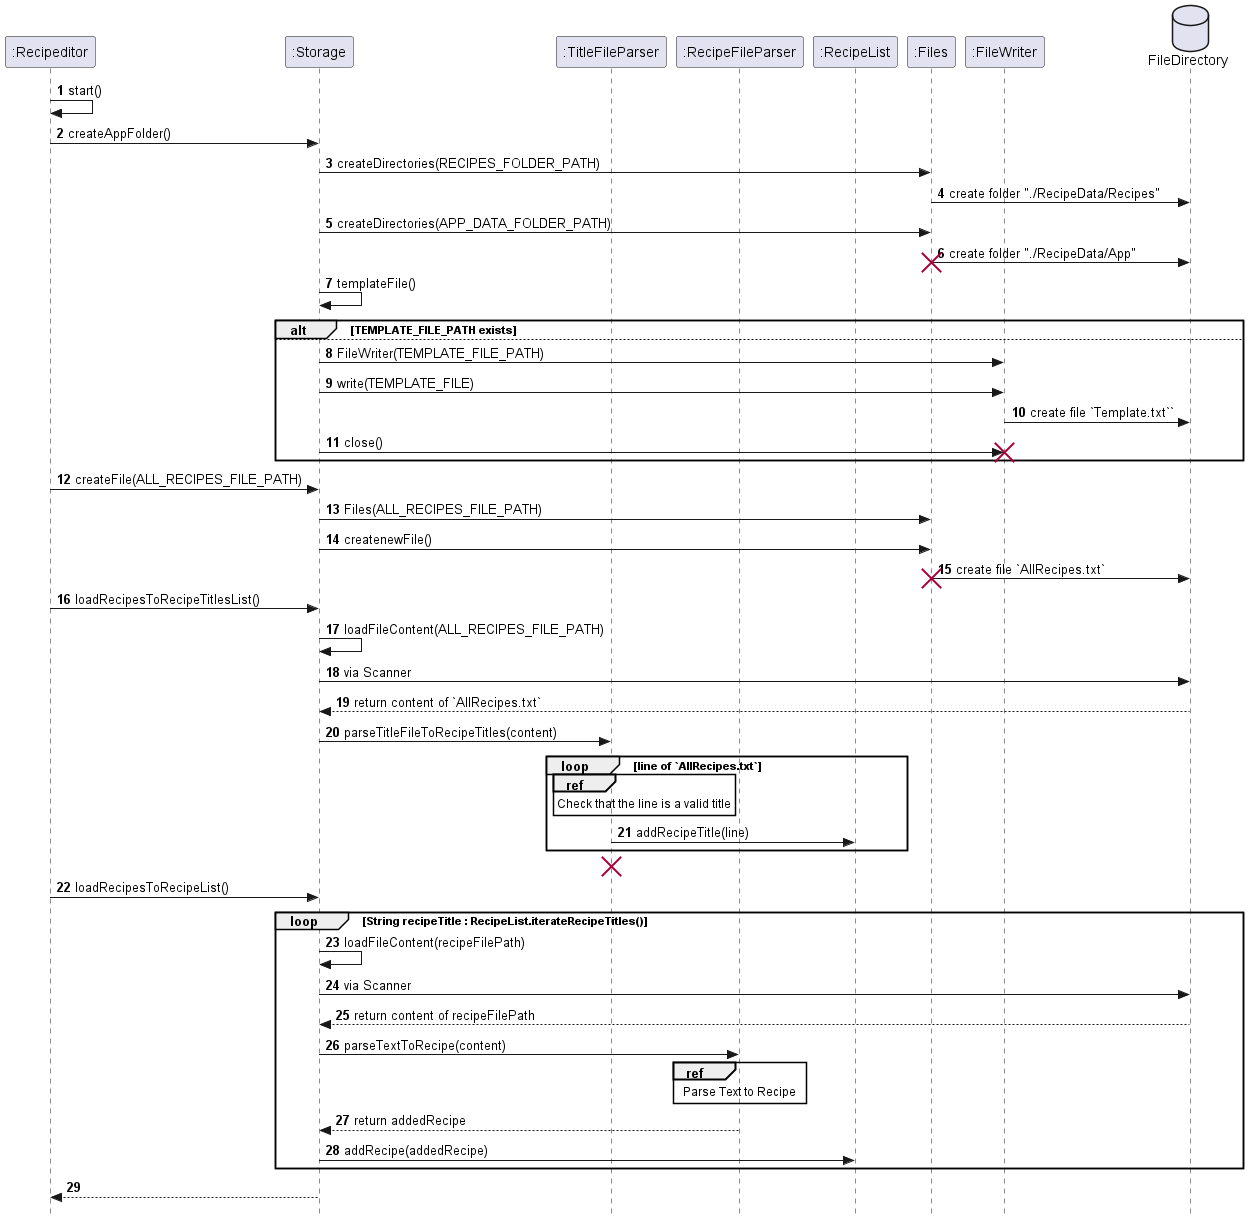
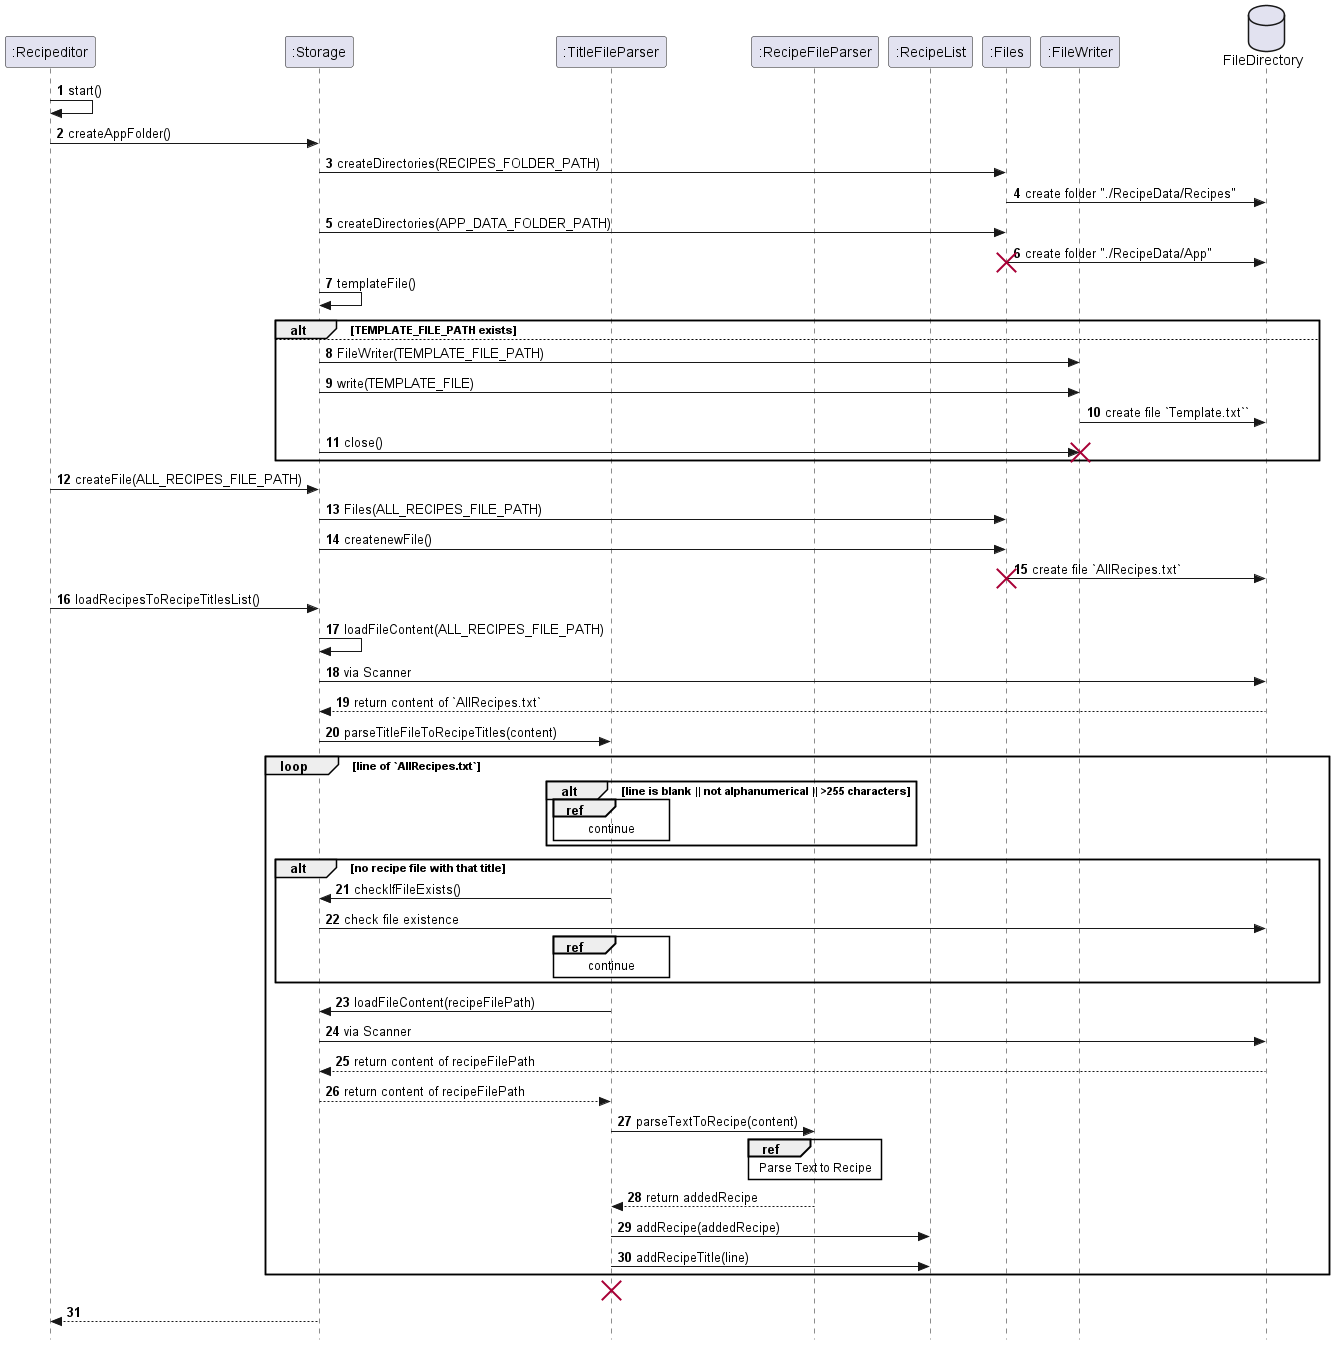
add test to recipeditor

diff --git a/src/main/java/recipeditor/Recipeditor.java b/src/main/java/recipeditor/Recipeditor.java
@@ -1,8 +1,6 @@
 package recipeditor;
 
 import recipeditor.parser.Parser;
-import recipeditor.recipe.Recipe;
-import recipeditor.recipe.RecipeList;
 import recipeditor.storage.Storage;
 import recipeditor.ui.Ui;
 
@@ -16,16 +14,18 @@ import java.io.File;
 public class Recipeditor {
 
     public static void main(String[] args) {
-        run(args);
+        run();
+        System.exit(0);
+
     }
 
-    private static void run(String[] args) {
-        start(args);
+    public static void run() {
+        start();
         runCommandLoopUntilExitCommand();
         exit();
     }
 
-    private static void start(String[] args) {
+    private static void start() {
         Storage.createAppFolder();
         Storage.createFile(Storage.ALL_RECIPES_FILE_PATH);
         Storage.loadRecipesToRecipeTitlesList();
@@ -37,7 +37,6 @@ public class Recipeditor {
         Storage.deleteAllRecipe();
         Storage.saveAllRecipe();
         Ui.showExit();
-        System.exit(0);
     }
 
     private static void runCommandLoopUntilExitCommand() {
@@ -53,12 +52,12 @@ public class Recipeditor {
     }
 
     private static CommandResult executeCommand(Command command) {
-        try {
-            CommandResult result = command.execute();
-            return result;
-        } catch (Exception e) {
-            Ui.showMessage(e.getMessage());
-            throw new RuntimeException(e);
-        }
+    //        try {
+        CommandResult result = command.execute();
+        return result;
+    //        } catch (Exception e) {
+    //            Ui.showMessage(e.getMessage());
+    //            throw new RuntimeException(e);
+    //        }
     }
 }

diff --git a/src/test/java/recipeditor/RecipeditorTest.java b/src/test/java/recipeditor/RecipeditorTest.java
@@ -1,13 +1,22 @@
 package recipeditor;
 
-import static org.junit.jupiter.api.Assertions.assertTrue;
 
 import org.junit.jupiter.api.Assertions;
 import org.junit.jupiter.api.Test;
 
 import java.io.ByteArrayInputStream;
+import java.io.IOException;
 import java.io.InputStream;
 
 class RecipeditorTest {
 
+    @Test
+    void runAndExit(){
+        String simulatedInput = "/exit";
+        ByteArrayInputStream input = new ByteArrayInputStream(simulatedInput.getBytes());
+        System.setIn(input);
+        String[] args = {""};
+        Recipeditor.run();
+        Assertions.assertTrue(true);
+    }
 }

diff --git a/docs/DeveloperGuide.md b/docs/DeveloperGuide.md
@@ -204,8 +204,8 @@ The edit component consists of three parts:
 - Parser
     - Parses the user input, instantiates the EditCommand class
 - EditModeCommand
-    - Handles the edit functions that falls under `EditModeCommand` 
-  (`Add`, `Swap`, `Change`, `Delete`, `Invalid`)
+    - Handles the edit functions that falls under `EditModeCommand`
+      (`Add`, `Swap`, `Change`, `Delete`, `Invalid`)
 - EditCommand
     - Instantiated by parser whenever `/edit` is called, instantiates the flag parser, switches the flow between GUI and
       CLI,
@@ -281,15 +281,20 @@ When the program starts, it will
     - Create `AllRecipes.txt` file to keep track of the recipe titles
     - Create `Template.txt` file for Add Command
 - Subsequent run
-    - Load the recipe titles from `Tempate.txt` into ArrayList `RecipeList.recipeTitles`
-    - It will **check for the validity** of the titles
+    - Read the recipe titles from `Tempate.txt` line by line
+    - **Check for the validity** of the titles
         - Title is not blank
         - Title is alphanumeric
         - Title does not exceed 255 characters
-        - Title has an corresponding recipe file in `./RecipeData/Recipes`
-    - Load the recipe file in `./RecipeData/Recipes` into ArrayList `RecipeList.recipes`
+        - Title has a corresponding recipe file in `./RecipeData/Recipes`
+    - Read the recipe file in `./RecipeData/Recipes`
         - The recipe file content is parsed by the `RecipeFileParser` class.
           Check [Parse Text to Recipe](#parse-text-to-recipe)
+        - If the recipe title in the file content is different from the recipe file name, use the file name
+    - Only when the parsing is correct
+      - Load recipe into ArrayList `RecipeList.recipes`
+      - Load recipe title into ArrayList `RecipeList.recipeTitles`
+
 
 #### Exit
 
@@ -306,6 +311,7 @@ Before exiting, the program will
 This is to prevent manual tampering of the data that might affect the data in the next run
 
 ### Parsing of Commands
+
 The following sequence diagram shows the usage of relevant classes and methods when trying to parse
 an arbitrary input into an executable `command` by software.
 <p align="center" width="100%">
@@ -317,19 +323,20 @@ A user input will be parsed into `parser` and checked for the command word by `p
 
 Step 2.1:
 If command word is `/add`, `parseAddCommand()` will be called by `Parser`. If the input is a valid `AddCommand`,
-an instance of `AddCommand` to instruct entering `GuiWorkFlow` will be returned. 
+an instance of `AddCommand` to instruct entering `GuiWorkFlow` will be returned.
 
 Step 2.2:
 If `templateFileMissingException` occurs,`Parser` will call `generateFile()` in `Storage` to create
 the template file. An `InvalidCommand`containing this exception will be returned.
 
 Step 3.1:
-If command word is `/edit`, `parseEditCommand()` will be called by `Parser`. If the command input is a valid `EditCommand`
-to edit in Gui, an instance of `EditCommand` to instruct entering `GuiWorkFlow` will be returned. 
+If command word is `/edit`, `parseEditCommand()` will be called by `Parser`. If the command input is a
+valid `EditCommand`
+to edit in Gui, an instance of `EditCommand` to instruct entering `GuiWorkFlow` will be returned.
 
 Step 3.1.1:
-If the command is invalid, one of the `Exception` among `IndexOutOfBoundException`, `NumberFormatException` 
-or `FileNotFoundException` occurs. An `InvalidCommand` containing the respective `Exception` message will 
+If the command is invalid, one of the `Exception` among `IndexOutOfBoundException`, `NumberFormatException`
+or `FileNotFoundException` occurs. An `InvalidCommand` containing the respective `Exception` message will
 be returned.
 
 Step 3.2:
@@ -353,12 +360,12 @@ If the command word is `/view`, `Parser` will call `parseViewCommand()` from its
 to `Parser`.
 
 Step 6.2:
-If the command views `recipe` by title, a `ViewCommand` that instructs showing `recipe` of the given 
+If the command views `recipe` by title, a `ViewCommand` that instructs showing `recipe` of the given
 title will be returned to `Parser`.
 
 Step 6.3:
 If one of the `Exception` among `MissingFlagException`, `InvalidFlagException`, `IndexOutOfBoundException`
-and `NumberFormatException` or `AssertionError` occurs, an instance of `InvalidCommand` containing 
+and `NumberFormatException` or `AssertionError` occurs, an instance of `InvalidCommand` containing
 information on the respective `Exception` or `Error` will be returned to `Parser`.
 
 Step 7.1:
@@ -376,8 +383,8 @@ and `NumberFormatException` or `AssertionError` occurs, an instance of `InvalidC
 information on the respective `Exception` or `Error` will be returned to `Parser`.
 
 Step 8.1:
-If the command word is `/find`, `Parser` will call `parseFindCommand()` from itself. If the input is a valid 
-`FindCommand`, an instance containing the respective `flag` and other input information will be returned to 
+If the command word is `/find`, `Parser` will call `parseFindCommand()` from itself. If the input is a valid
+`FindCommand`, an instance containing the respective `flag` and other input information will be returned to
 `Parser`.
 
 Step 8.2:
@@ -389,7 +396,7 @@ If the command word is `/help`, `Parser` will call `parseHelpCommand()` from its
 `HelpCommand`, an instance containing input information will be returned to `Parser`.
 
 Step 9.2:
-If the input is not of the same length as the expected length of a `HelpCommand` input, an instance of `InvalidCommand` 
+If the input is not of the same length as the expected length of a `HelpCommand` input, an instance of `InvalidCommand`
 containing information on the correct format for `HelpCommand` input will be returned to `Parser`.
 
 Step 10:
@@ -419,22 +426,22 @@ If the command word is none of the above, an instance of `InvalidCommand` will b
 
 1. GUI is only triggered by Add and Edit command
 
-   - Add command will pass the path of the `Template.txt` file
-   - Edit command will pass the path of the recipe the user wants to edit
+    - Add command will pass the path of the `Template.txt` file
+    - Edit command will pass the path of the recipe the user wants to edit
 
 2. From the path, `GuiWorkFlow` class can detect whether it is `Mode.ADD` or `Mode.EDIT`
 
-   - `Mode.ADD` throws an exception when the recipe title already exist in the `RecipeList.recipes`
-   - `Mode.EDIT` overwrite the recipe title that already exist `RecipeList.recipes`
+    - `Mode.ADD` throws an exception when the recipe title already exist in the `RecipeList.recipes`
+    - `Mode.EDIT` overwrite the recipe title that already exist `RecipeList.recipes`
 
 3. There are an initial entry to `Editor` and a loop for subsequent entry to `Editor` if the user choose to fix the
    content of the recipe
 4. When exiting the `Editor`, the user can choose to SAVE or EXIT
 
-   - SAVE will return `saveToTemp = True` and save the content in the `Editor` to `Temporary.txt`
-   - EXIT will return `saveToTemp = False`
-   - if `saveToTemp = False`, program flow will exit the loop
-   - if `saveToTemp = False`, program flow will exit the loop
+    - SAVE will return `saveToTemp = True` and save the content in the `Editor` to `Temporary.txt`
+    - EXIT will return `saveToTemp = False`
+    - if `saveToTemp = False`, program flow will exit the loop
+    - if `saveToTemp = False`, program flow will exit the loop
 
 5. The loop is a PARSE and RE-ENTRY
 
@@ -453,39 +460,39 @@ If the command word is none of the above, an instance of `InvalidCommand` will b
 - The parsing of is solely handled by `RecipeFileParser` with little interaction with other classes. Hence there will be
   no diagram.
 - The parser has variables and counter to keep track of the parsing process
-  - `lineType`:`TITLE`, `DESCRIPTION`, `INGREDIENT`, `STEP`, `NORMAL`
-  - `stage`: `TITLE_START`, `TITLE`, `TITLE_END`,  `DESCRIPTION`, `INGREDIENT`, `STEP`, `NORMAL`
-  - `stageCounter = {0,0,0,0}`: count the occurrence of {TITLE, DESCRIPTION, INGREDIENT, STEP}
-  - `ingredientIndex`: keep track of the increment of INGREDIENT index
-  - `stepIndex`: keep track of the correct increment of STEP index
+    - `lineType`:`TITLE`, `DESCRIPTION`, `INGREDIENT`, `STEP`, `NORMAL`
+    - `stage`: `TITLE_START`, `TITLE`, `TITLE_END`,  `DESCRIPTION`, `INGREDIENT`, `STEP`, `NORMAL`
+    - `stageCounter = {0,0,0,0}`: count the occurrence of {TITLE, DESCRIPTION, INGREDIENT, STEP}
+    - `ingredientIndex`: keep track of the increment of INGREDIENT index
+    - `stepIndex`: keep track of the correct increment of STEP index
 
-- Go through the text line by line 
+- Go through the text line by line
 - Detect whether the line is a Heading (denoted by `#`) and assign the `lineType` for that line
-   - if `lineType` is a heading, assign `stage` appropriately, and increment `stageCounter` 
-   - else, the `lineType` is `NORMAL`
+    - if `lineType` is a heading, assign `stage` appropriately, and increment `stageCounter`
+    - else, the `lineType` is `NORMAL`
 - Parsing of line with `NORMAL` type is dependent on the `stage`
-  - If the line is blank, it does not affect the parsing
+    - If the line is blank, it does not affect the parsing
 - For `TITLE`:
-  - Perform validity check as the recipe title is a text file
-    - Alphanumerical
-    - less than 255 character
+    - Perform validity check as the recipe title is a text file
+        - Alphanumerical
+        - less than 255 character
 - For `DESCRIPTION`:
-  - Allow all characters, including blank lines 
-  - Blank lines will be recorded to give the user some freedom in describing the recipe
+    - Allow all characters, including blank lines
+    - Blank lines will be recorded to give the user some freedom in describing the recipe
 - For `INGREDIENT`:
-  - Check for the appropriate format `INDEX. INGREDIENT_NAME / AMOUNT / UNIT`
-    - Positive integer index
-    - Positive double amount
-  - Check for the correct index increment based on `ingredientIndex`
+    - Check for the appropriate format `INDEX. INGREDIENT_NAME / AMOUNT / UNIT`
+        - Positive integer index
+        - Positive double amount
+    - Check for the correct index increment based on `ingredientIndex`
 - For `STEP`
-  - Check for the appropriate format `INDEX. STEP_DESCRIPTION`
-    - Positive integer index
-  - Check for the correct index increment based on `stepIndex`
+    - Check for the appropriate format `INDEX. STEP_DESCRIPTION`
+        - Positive integer index
+    - Check for the correct index increment based on `stepIndex`
 
 - Check if the correct number of Heading occurrence is correct
 - Because of the `stage`, Headings are **parseable** in different order (but highly discouraged)
 - Check if the recipe is empty
-  - Because the blank lines are disregarded
+    - Because the blank lines are disregarded
 
 ### Edit an Existing Recipe
 
@@ -508,7 +515,8 @@ If the command word is none of the above, an instance of `InvalidCommand` will b
 
 ### Target user profile
 
-Avid cook who wants to organize their recipe list for ease of reference and search. The user is also a fast typer who can quickly type out all the part of the recipe
+Avid cook who wants to organize their recipe list for ease of reference and search. The user is also a fast typer who
+can quickly type out all the part of the recipe
 
 ### Value proposition
 
@@ -533,7 +541,9 @@ quickly.
 | v2.0    | new user | view the list of available commands           | use the appropriate command according to my needs                                                           |
 
 ## Non-functional Requirement
+
 - Work on all popular Operating System: Windows, Mac, Linux
+
 ## Glossary
 
 ## Instructions for manual testing
@@ -653,15 +663,16 @@ quickly.
 - **Tamper the recipe file (parseable recipe)**
     - The program will load the recipe with the tampered content
 - **Tamper the recipe file (unparseable recipe)**
-  - The program will not load the recipe 
-  - Recipes folder: with 3 sample recipes
-  - `AllRecipes.txt` with 3 sample recipe titles
-  
+    - The program will not load the recipe
+    - Recipes folder: with 3 sample recipes
+    - `AllRecipes.txt` with 3 sample recipe titles
+
 ## Non-Functional Requirements
 
 1. Should work on any OS as long as it has Java 11 or above installed on their PC.
 2. Should be able to hold up to 1000 recipes without a slowdown of performance.
-3. Any user that is comfortable with typing of speeds >55 words per minute would be able to accomplish these tasks faster than if they used a mouse to navigate.
+3. Any user that is comfortable with typing of speeds >55 words per minute would be able to accomplish these tasks
+   faster than if they used a mouse to navigate.
 4. Run the program for the first time, so that the program generates the `RecipeData` folder and `/exit` the program
 5. Copy the folder and file in 3. to `RecipeData`, overwriting existing files
 6. This gives you 3 sample recipes so you don't have to manually add recipes all the time
